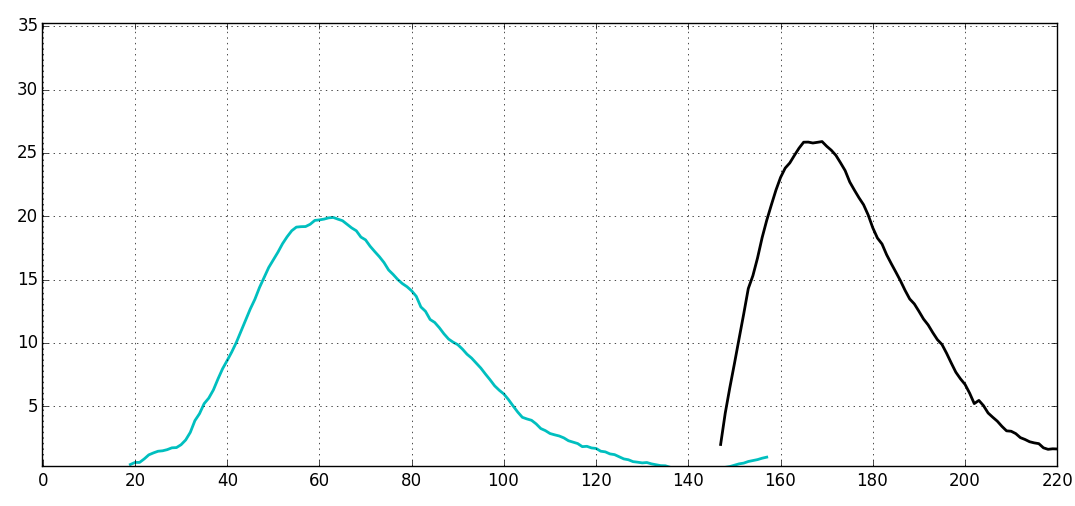
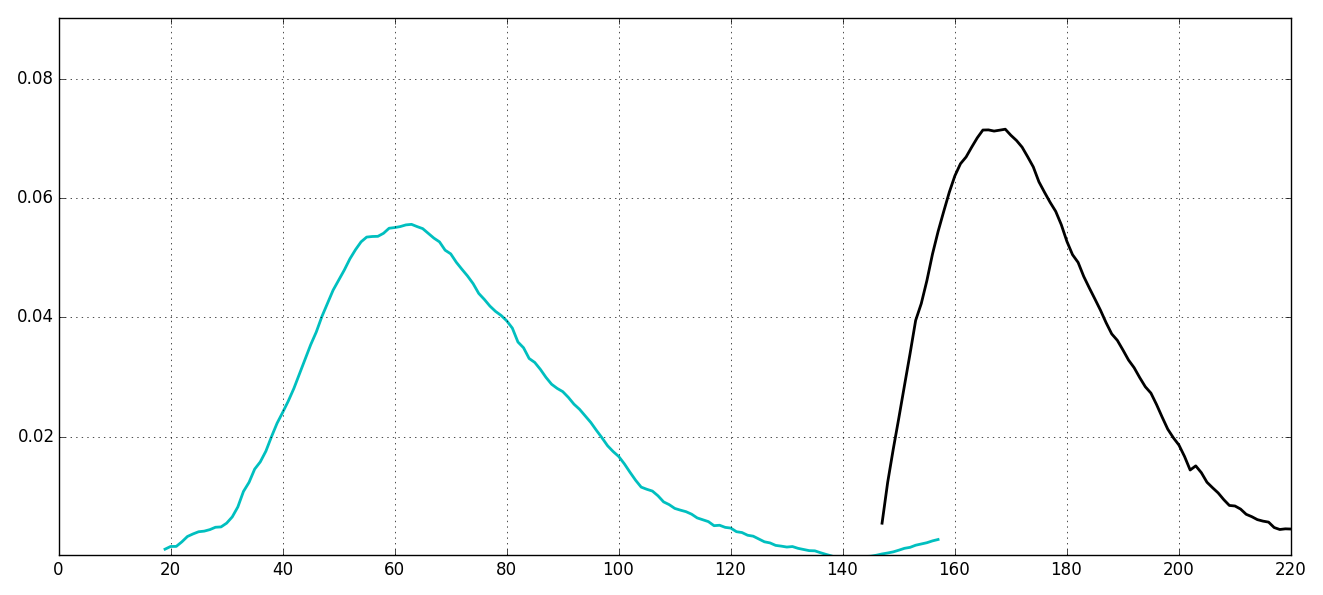
dev

diff --git a/chapter2/test/test_scaler.py b/chapter2/test/test_scaler.py
@@ -5,29 +5,43 @@ from sklearn import preprocessing
 import numpy as np
 import matplotlib.pyplot as plt
 from matplotlib.ticker import MultipleLocator
+import sys
+sys.path.append('../src')
+from data_distribute_feature import *
 
-ax = plt.gca()
-plt.grid() #开启网格
-ax.xaxis.set_major_locator( MultipleLocator(20) )
-ax.yaxis.set_major_locator( MultipleLocator(5) )
+#ax = plt.gca()
+#plt.grid() #开启网格
+##plt.xlim(0,7)
+#plt.ylim(0, 0.06)
+
+#ax.xaxis.set_major_locator( MultipleLocator(1) )
+#ax.yaxis.set_major_locator( MultipleLocator(5) )
 
 d = np.loadtxt('../data/height_weight.lst')
 ID, height, weight = d[:, 0], d[:, 1], d[:, 2]
-#plt.plot(*pdf2(height), c='k', linewidth=2); 
-#plt.plot(*pdf2(weight), c='c', linewidth=2); 
+#plt.plot(*pdf2(height, norm_flag=True), c='k', linewidth=2); 
+#plt.plot(*pdf2(weight, norm_flag=True), c='c', linewidth=2); 
 
 
+#ax.xaxis.set_major_locator( MultipleLocator(0.1) )
+#ax.yaxis.set_major_locator( MultipleLocator(5) )
 
 height_mm_scaler = preprocessing.MinMaxScaler()
 h_scaled = height_mm_scaler.fit_transform(height)
 weight_mm_scaler = preprocessing.MinMaxScaler()
 w_scaled = weight_mm_scaler.fit_transform(weight)
-
-plt.plot(*pdf2(h_scaled), c='k', linewidth=2); 
-plt.plot(*pdf2(w_scaled), c='c', linewidth=2); 
+plt.plot(*pdf2(h_scaled, zoom=70, norm_flag=True), c='k', linewidth=2); 
+plt.plot(*pdf2(w_scaled, zoom=70, norm_flag=True), c='c', linewidth=2); 
 
 
 height_std_scaler = preprocessing.StandardScaler()
 h_std_rslt = height_std_scaler.fit_transform(height)
 weight_std_scaler = preprocessing.StandardScaler()
 w_std_rslt = weight_std_scaler.fit_transform(weight)
+#plt.plot(*pdf2(h_std_rslt, norm_flag=True, zoom=20), c='k', linewidth=2); 
+#plt.plot(*pdf2(w_std_rslt, norm_flag=True, zoom=20), c='c', linewidth=2); 
+
+#h_cdf = cdf(height, norm_flag=True)[1]
+#w_cdf = cdf(weight, norm_flag=True)[1]
+#
+#plt.plot(*pdf2(w_cdf, zoom=1000), c='c', linewidth=2); 

diff --git a/chapter2/src/data_distribute_feature.py b/chapter2/src/data_distribute_feature.py
@@ -1,14 +1,23 @@
 # -*- coding: utf-8 -*-
 import numpy as np
+from scipy import stats
 
 
-def mock_data(min_val=0, center=3., df=3, size=10000):
-    p = np.random.chisquare(df=df, size=size) 
-    p = p * ((center-min_val) * 1. / df) + min_val
-    p = p.astype(int)
-    return p
+def height_weight_mock(min_height=145, mid_height=175, df=6, size=1000):
+    h = mock_data(min_val=min_height, center=mid_height, df=df, size=size)
+    h[h>220] = mid_height + int(np.random.normal(scale=5))
+    w = h - 105
+    w += np.random.normal(scale=w/5.)
+    return h, w
 
 
+def height_weight_file(save_path, size=1000):
+    h, w = height_weight_mock(size=size)
+    i = np.arange(1, size+1)
+    d = np.hstack((i.reshape(-1, 1), 
+                   h.reshape(-1, 1), 
+                   w.reshape(-1, 1)))
+    np.savetxt(save_path, d, fmt='%s')
 
 def savitzky_golay(y, window_size=100, order=3, deriv=0, rate=1):
     import numpy as np
@@ -70,16 +79,25 @@ def pdf(x, norm_flag=False, zoom=1.):
     #c = np.bincount(x)
     c = count_bitmap(x)
     if norm_flag:
-        c = c * 1. /sum(x)
-    return np.arange(x.min()+bias, x.max()+1+bias) * 1. / zoom, c    
-
+        c = c * 1. / len(x) 
+    #return np.arange(x.min()+bias, x.max()+1+bias) * 1. / zoom, c    
+    return np.arange(x.min(), x.max()+1) * 1. / zoom + bias, c    
 
 def cdf(x, norm_flag=False):
-    i, p = pdf(x, norm_flag)
-    return i, np.add.accumulate(p)
+    i, p = pdf(x, norm_flag=False)
+    cp = np.add.accumulate(p)
+    if norm_flag:
+        cp = cp * 1. / len(x)
+    return i, cp
     
 
 def pdf2(x, norm_flag=False, n_bins=20, zoom=1):
     i, p = pdf(x, norm_flag, zoom=zoom)
     return i, savitzky_golay(p, window_size=len(x)//n_bins)
     
+    
+def skewness(x):
+    return stats.moment(x, moment=3) / (np.std(x) ** 3)
+    
+def kurtosis(x):
+    return stats.moment(x, moment=4) / (np.var(x) ** 2) - 3

diff --git a/chapter2/src/data_scaler.py b/chapter2/src/data_scaler.py
@@ -2,21 +2,6 @@
 from data_distribute_feature import *
 import numpy as np
 
-def height_weight_mock(min_height=145, mid_height=175, df=6, size=1000):
-    h = mock_data(min_val=min_height, center=mid_height, df=df, size=size)
-    h[h>220] = mid_height + int(np.random.normal(scale=5))
-    w = h - 105
-    w += np.random.normal(scale=w/5.)
-    return h, w
-
-
-def height_weight_file(save_path, size=1000):
-    h, w = height_weight_mock(size=size)
-    i = np.arange(1, size+1)
-    d = np.hstack((i.reshape(-1, 1), 
-                   h.reshape(-1, 1), 
-                   w.reshape(-1, 1)))
-    np.savetxt(save_path, d, fmt='%s')
     
     
 def line_regress(height, weight):
@@ -37,3 +22,6 @@ def line_regress(height, weight):
     return lr.coef_, lr.intercept_
 
 
+def pearson(X, Y):
+    import scipy as sp
+    return sp.stats.pearsonr(X, Y)[0]

diff --git a/chapter2/src/mock_data.py b/chapter2/src/mock_data.py
@@ -1,0 +1,9 @@
+# -*- coding: utf-8 -*-
+import numpy as np
+
+def mock_data(min_val=0, center=3., df=3, size=10000):
+    p = np.random.chisquare(df=df, size=size) 
+    p = p * ((center-min_val) * 1. / df) + min_val
+    p = p.astype(int)
+    return p
+

diff --git a/chapter2/test/test_distribution.py b/chapter2/test/test_distribution.py
@@ -3,3 +3,8 @@ import numpy as np
 from matplotlib.pyplot import hist
 x = np.loadtxt('../data/salary.lst')
 hist(x, bins=100)
+
+
+from scipy import stats
+stats.skew(x)
+stats.kurtosis(x)

diff --git a/chapter2/test/test_mock_data.py b/chapter2/test/test_mock_data.py
@@ -1,0 +1,2 @@
+# -*- coding: utf-8 -*-
+
